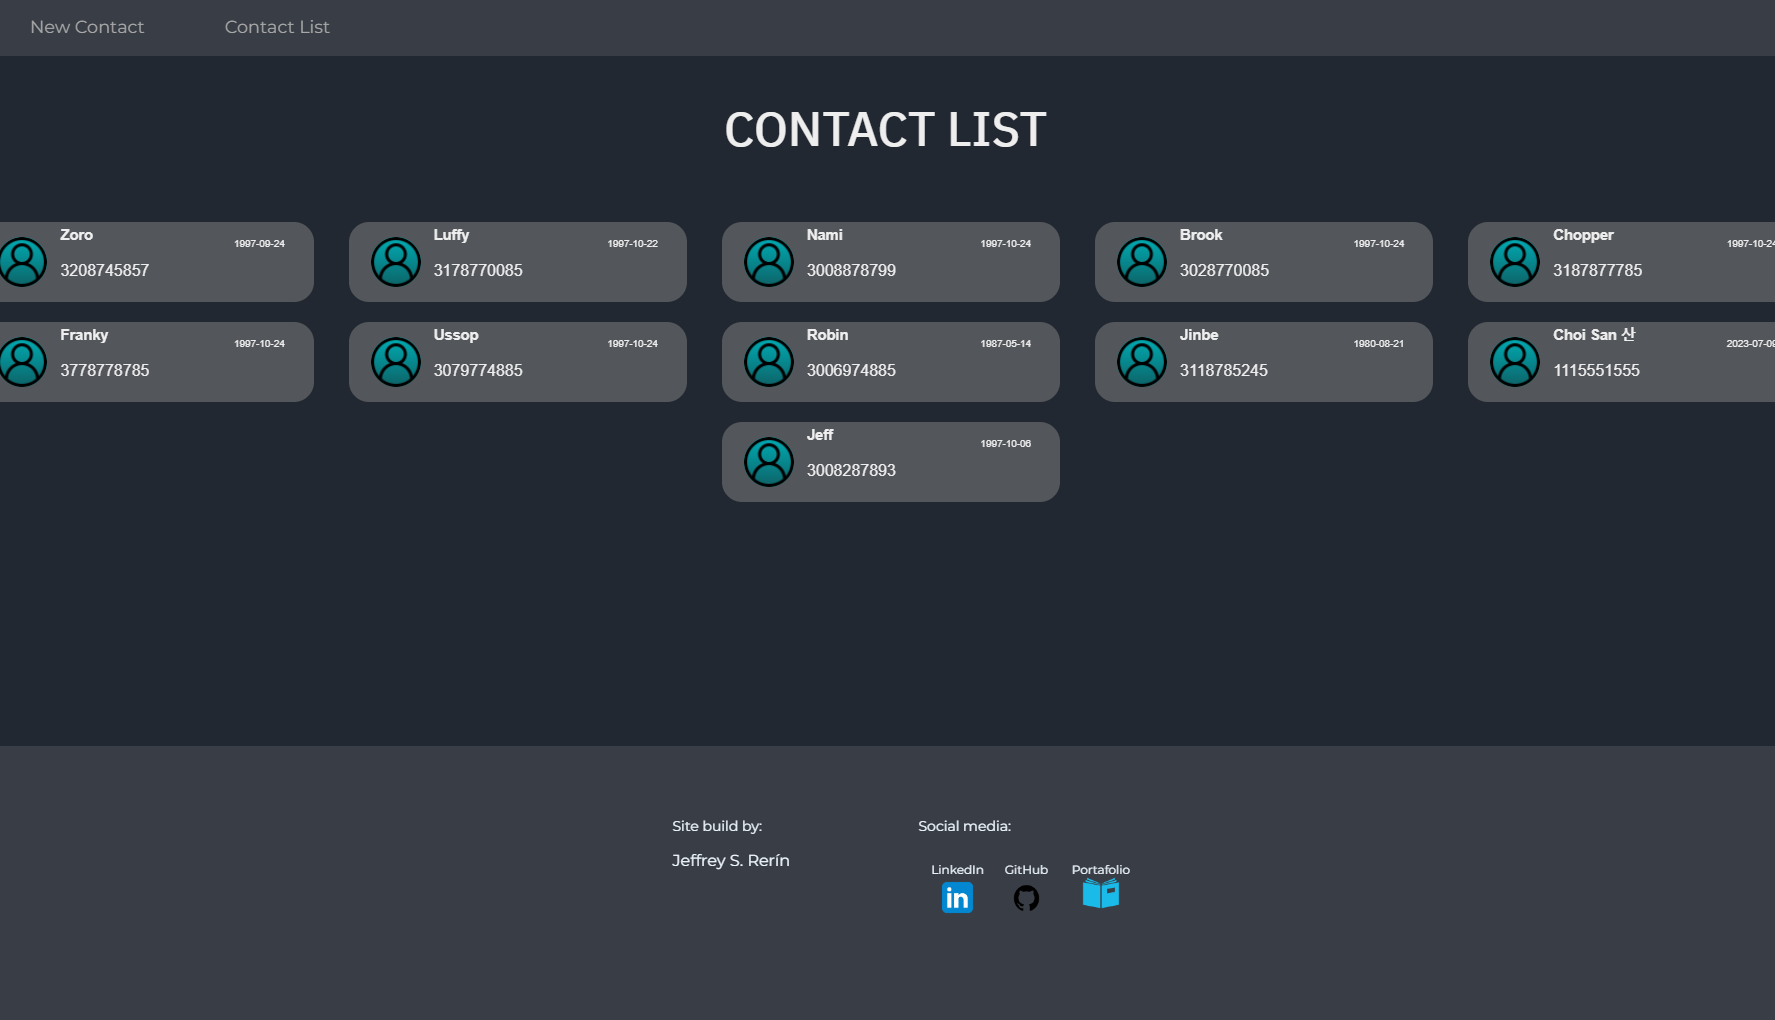
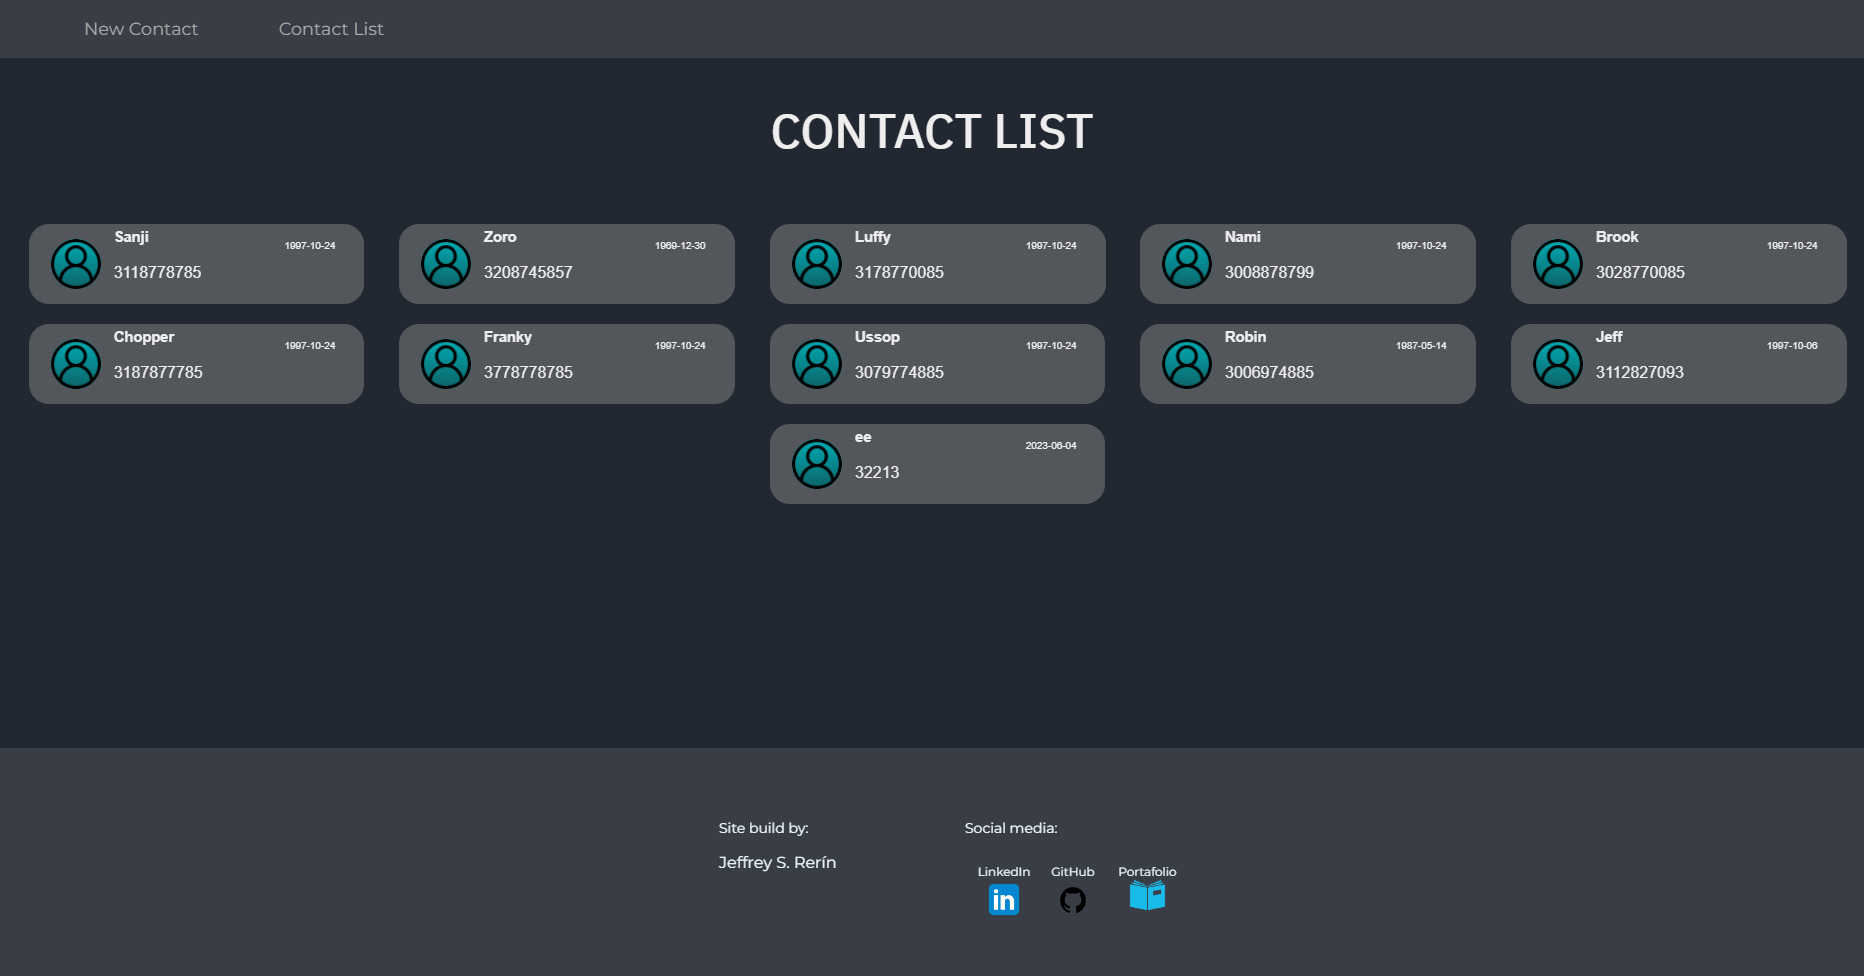
Renovando imagenes, ajustando textos en ingles y ligeros cambios en los estilos

diff --git a/frontend/src/assets/css/styles.css b/frontend/src/assets/css/styles.css
@@ -178,6 +178,7 @@ body.dark .switch-button button:hover {
   flex-direction: column;
   align-items: center;
   justify-content: center;
+  padding: 0 0.5rem;
 }
 .works .content .section-gallery .work-cards-container .layer .text-container h3 {
   text-align: center;
@@ -812,135 +813,6 @@ body.dark .skills {
   color: #dde6ed;
 }
 
-.contact {
-  font-family: "Comfortaa", cursive;
-  background: url("../images/backgrounds/1.jpg");
-  background-size: 30rem cover;
-  background-attachment: fixed;
-  height: 100%;
-  display: flex;
-  justify-content: center;
-  position: relative;
-}
-.contact .container {
-  bottom: 0;
-  width: 42%;
-}
-.contact .container .header-contact {
-  text-align: center;
-  color: #000;
-}
-.contact .container .header-contact h2 {
-  font-size: 2rem;
-}
-.contact .container .header-contact p {
-  font-size: 1.5rem;
-}
-.contact .container .form-contact {
-  padding: 0 2.5rem;
-  border-top-left-radius: 10px;
-  border-top-right-radius: 10px;
-  background: rgba(252, 248, 236, 0.8);
-  border-top: 2px solid rgba(0, 0, 0, 0.6);
-  border-left: 2px solid rgba(0, 0, 0, 0.6);
-  border-right: 2px solid rgba(0, 0, 0, 0.6);
-  display: flex;
-  flex-direction: column;
-  align-items: center;
-}
-.contact .container .form-contact input,
-.contact .container .form-contact textarea {
-  background: rgba(252, 248, 236, 0.8);
-  padding: 0.5rem 0;
-  min-width: 50%;
-  border-radius: 7px;
-  border: 1px solid rgba(0, 0, 0, 0.3);
-}
-.contact .container .form-contact .text-input-container {
-  width: 100%;
-}
-.contact .container .form-contact .text-input-container .input-container {
-  display: flex;
-  align-items: center;
-  justify-content: center;
-  padding: 1rem;
-}
-.contact .container .form-contact .text-input-container .input-container input {
-  margin: 1rem;
-  height: 2rem;
-}
-.contact .container .form-contact .text-input-container .input-container input:focus::placeholder {
-  transition: font-size 0.2s, transform 0.2s;
-  font-size: 0.55rem;
-  transform: translateY(-115%);
-}
-.contact .container .form-contact .text-input-container .input-container input::placeholder {
-  padding: 0.5rem;
-  font-size: 0.8rem;
-  color: rgba(0, 0, 0, 0.4);
-  transform: translateY(-40%);
-}
-.contact .container .form-contact .text-input-container .textarea-container textarea {
-  height: 10rem;
-  width: 100%;
-}
-.contact .container .form-contact .text-input-container .textarea-container textarea:focus::placeholder {
-  transition: font-size 0.2s, transform 0.2s;
-  font-size: 0.7rem;
-  transform: translateY(-100%);
-}
-.contact .container .form-contact .text-input-container .textarea-container textarea::placeholder {
-  font-size: 0.8rem;
-  padding: 0.5rem;
-  color: rgba(0, 0, 0, 0.4);
-  transform: translateY(-40%);
-}
-.contact .container .form-contact .submit-container {
-  font-family: "Gill Sans", "Gill Sans MT", Calibri, "Trebuchet MS", sans-serif;
-  padding-top: 2rem;
-  padding-bottom: 4rem;
-}
-.contact .container .form-contact .submit-container .contact-submit {
-  font-size: 1.3rem;
-  padding: 1rem 2.5rem;
-  background-color: rgba(0, 0, 0, 0);
-  cursor: pointer;
-  border: black solid 1px;
-  border-radius: 7px;
-}
-.contact .container .form-contact .submit-container .contact-submit:hover {
-  transition: background-color 0.5s;
-  background-color: rgba(0, 0, 0, 0.15);
-}
-
-body.dark .contact {
-  color: #dde6ed;
-}
-body.dark .contact .header-contact {
-  color: #dde6ed;
-}
-body.dark .contact .form-contact {
-  background-color: rgba(39, 55, 77, 0.8);
-}
-body.dark .contact .form-contact input,
-body.dark .contact .form-contact textarea {
-  background-color: rgba(39, 55, 77, 0.8);
-  border: 1px solid rgba(255, 255, 255, 0.26);
-}
-body.dark .contact .form-contact .text-input-container .input-container input::placeholder {
-  color: #dde6ed;
-}
-body.dark .contact .form-contact .text-input-container .textarea-container textarea::placeholder {
-  color: #dde6ed;
-}
-body.dark .contact .form-contact .submit-container .contact-submit {
-  color: #dde6ed;
-  border: 1px solid rgba(255, 255, 255, 0.342);
-}
-body.dark .contact .form-contact .submit-container .contact-submit:hover {
-  background-color: rgba(255, 255, 255, 0.2);
-}
-
 .contact-section {
   font-family: "Comfortaa", cursive;
   width: 100%;
@@ -1012,10 +884,10 @@ body.dark {
 }
 
 .footer {
+  background: #456268;
   font-family: "Comfortaa", cursive;
   width: 100%;
   position: absolute;
-  background: #456268;
   font-weight: bold;
   display: flex;
   flex-direction: column;
@@ -1045,10 +917,13 @@ body.dark {
 .footer .icons-ul li a .label {
   padding: 0.2rem;
 }
-.footer .menu {
-  font-size: 1.5rem;
+.footer .sign {
+  padding: 2rem 0 1rem 0;
+  margin: 0;
   list-style: none;
-  padding-top: 2rem;
+}
+.footer .sign li {
+  font-size: 1.5rem;
 }
 
 body.dark .footer {

diff --git a/frontend/src/pages/portfolio.jsx b/frontend/src/pages/portfolio.jsx
@@ -4,7 +4,6 @@ import Header from '../sections/header';
 import Footer from '../sections/footer';
 import Skills from '../sections/skills';
 import Work from '../sections/work';
-import Contact from '../sections/contact';
 import AboutMe from '../sections/aboutMe';
 import CarouselWorks from '../sections/carouselWorks';
 import ContactSection from '../sections/contactSection';
@@ -76,7 +75,6 @@ const Portfolio = () => {
       <div className='divisor-line-container'>
         <hr className='divisor-line' />
       </div>
-      {/* <Contact ref={contactRef} /> */}
       <ContactSection ref={contactRef} />
       <Footer />
     </>

diff --git a/frontend/src/assets/sass/sections/footer.scss b/frontend/src/assets/sass/sections/footer.scss
@@ -1,8 +1,8 @@
 .footer {
+  background: map-get($light, blueBayoux);
   font-family: $comfortaa-cursive;
   width: 100%;
   position: absolute;
-  background: map-get($light, blueBayoux);
   font-weight: bold;
   display: flex;
   flex-direction: column;
@@ -38,10 +38,14 @@
     }
   }
 
-  .menu {
-    font-size: 1.5rem;
+  .sign {
+    padding: 2rem 0 1rem 0;
+    margin: 0;
     list-style: none;
-    padding-top: 2rem;
+
+    li {
+      font-size: 1.5rem;
+    }
   }
 }
 

diff --git a/frontend/src/sections/carouselWorks.jsx b/frontend/src/sections/carouselWorks.jsx
@@ -109,8 +109,8 @@ const CarouselWorks = forwardRef((__, ref) => {
     <section className='work__cards' ref={ref}>
       <div className='content'>
         <header className='work-cards__header'>
-          <h2>My work</h2>
-          <p>Here is a part of my experience as software developer</p>
+          <h2>{t('works.title')}</h2>
+          <p>{t('works.description')}</p>
         </header>
         <Carousel
           plugins={[slidesToShowPlugin]}

diff --git a/frontend/src/sections/footer.jsx b/frontend/src/sections/footer.jsx
@@ -34,8 +34,8 @@ const Footer = () => {
           </Link>
         </li>
       </ul>
-      <ul className='menu'>
-        <li> Jeffrey S. Rerín</li>
+      <ul className='sign'>
+        <li>Jeffrey S. Rerín</li>
       </ul>
     </footer>
   );

diff --git a/frontend/src/assets/sass/index.scss b/frontend/src/assets/sass/index.scss
@@ -20,7 +20,6 @@
 @import './sections/work.scss';
 @import './sections/aboutMe.scss';
 @import './sections/skills.scss';
-@import './sections/contact.scss';
 @import './sections/contactSection.scss';
 @import './sections/footer.scss';
 

diff --git a/frontend/src/assets/sass/components/workCell.scss b/frontend/src/assets/sass/components/workCell.scss
@@ -52,6 +52,7 @@
             flex-direction: column;
             align-items: center;
             justify-content: center;
+            padding: 0 0.5rem;
 
             h3 {
               text-align: center;
